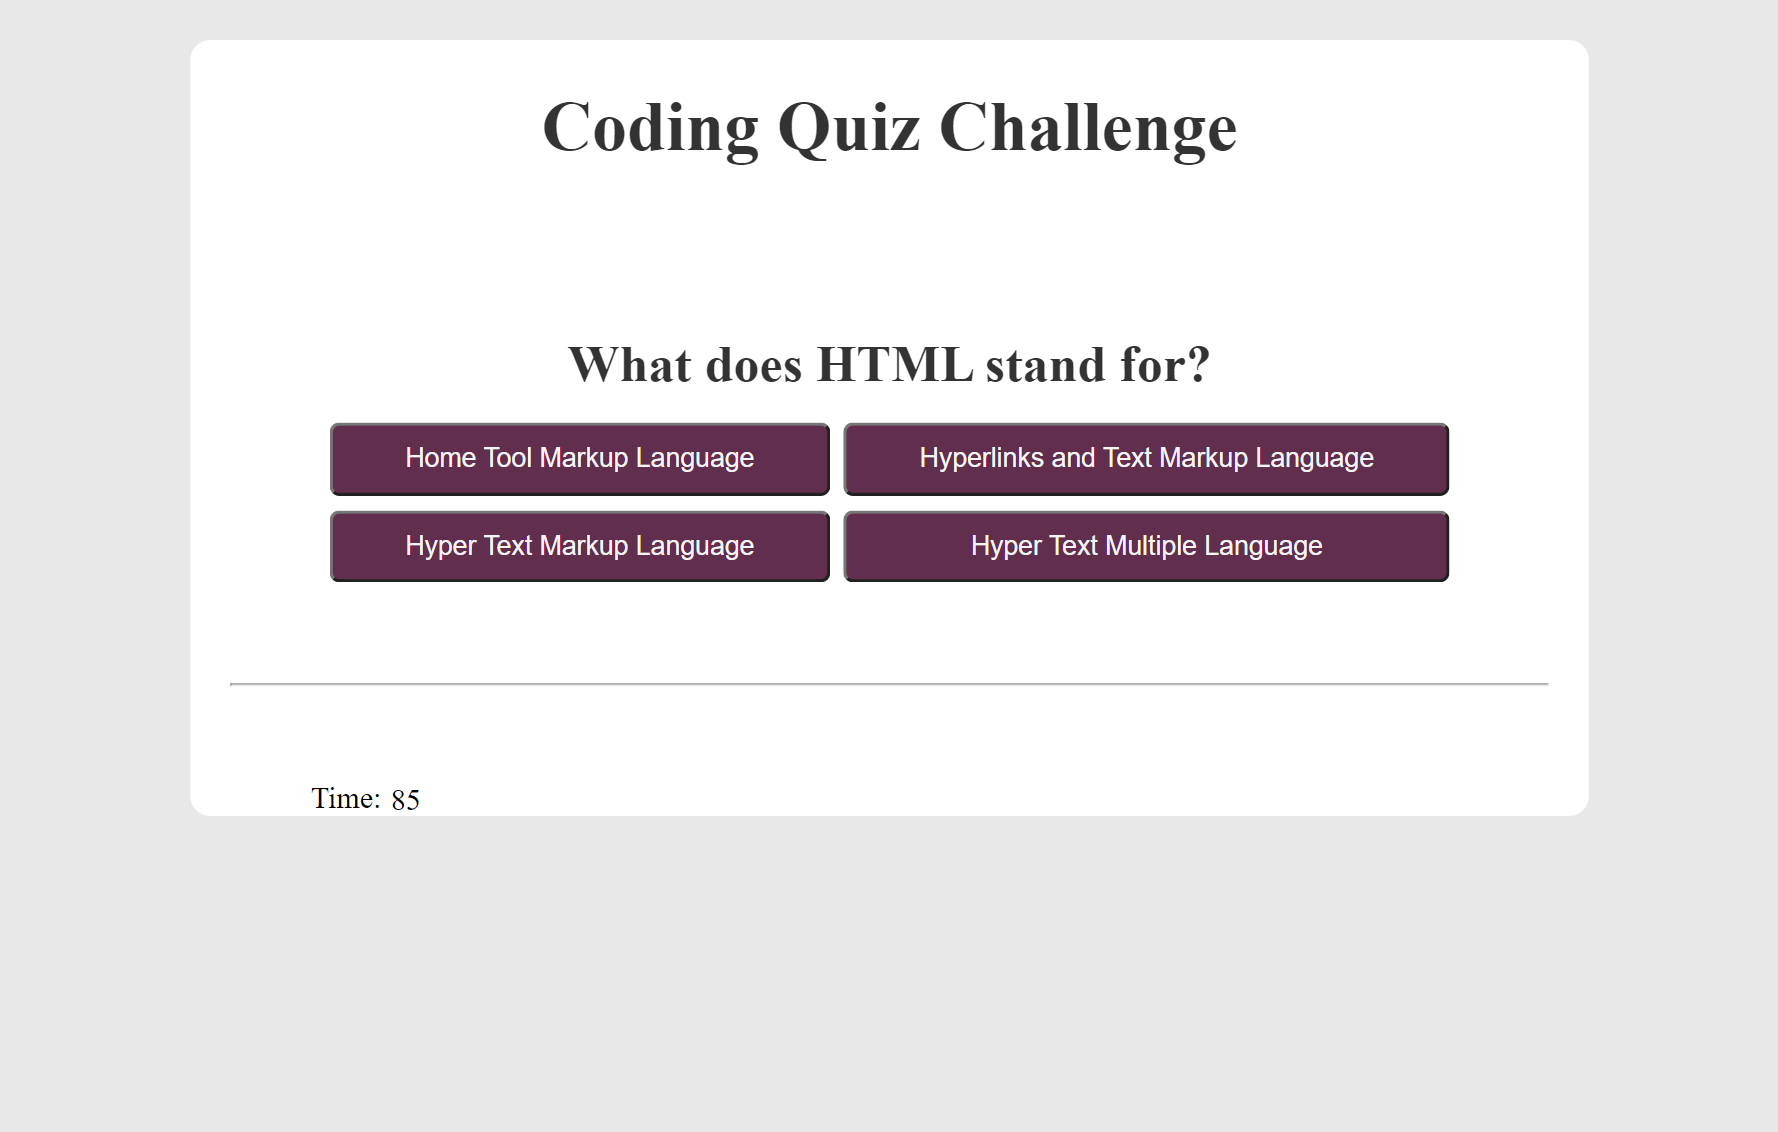
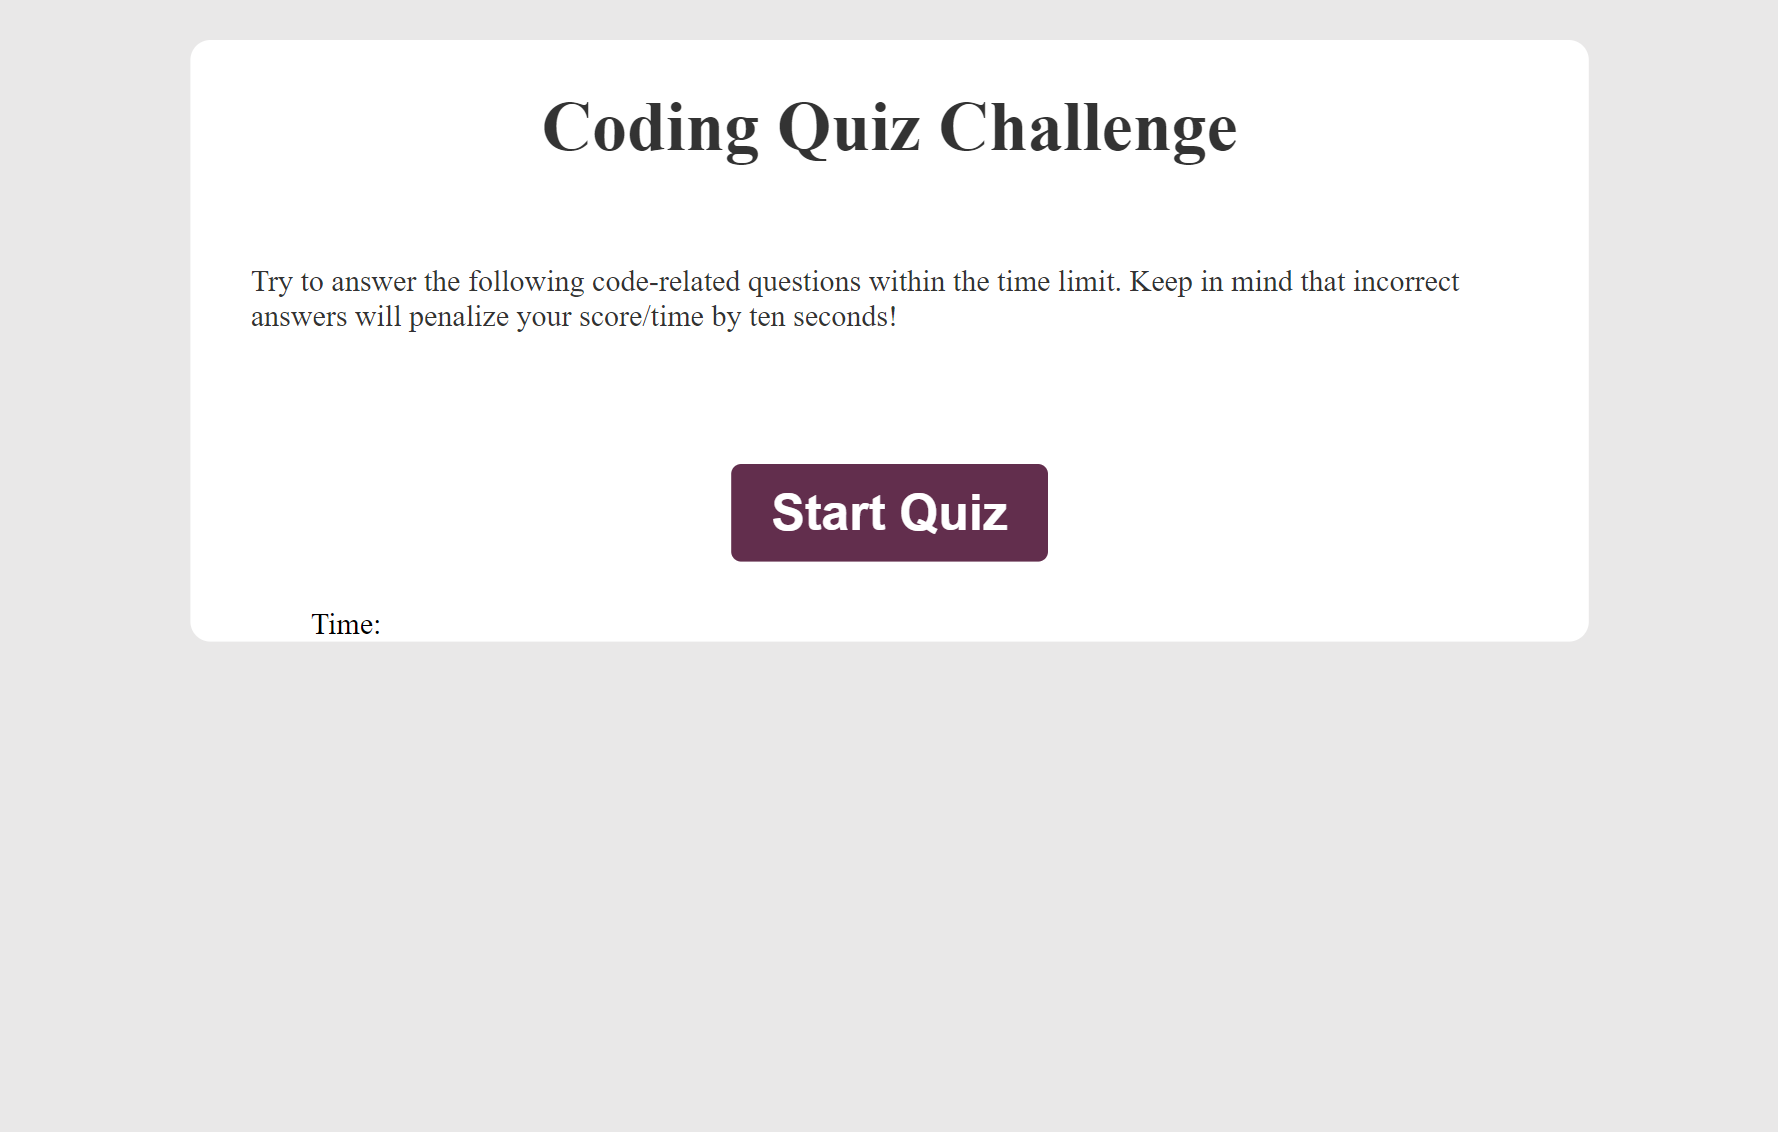
new screen shots added to readme file

Changed region(s): [[0.1856, 0.371, 0.8352, 0.5565], [0.1547, 0.2473, 0.8043, 0.3401], [0.1856, 0.6802, 0.2165, 0.7111]]

diff --git a/README.md b/README.md
@@ -23,5 +23,6 @@ Good luck and have fun!
 - License: MIT
 
 ## Screenshot and link for the deployed application
-![Screenshot of deployed application](./assets/screenshot/Screenshot1.png)(./assets/screenshot/Screenshot2.png)
+![Screenshot of deployed application](./assets/screenshot/Screenshot1.png)
+![Screenshot of deployed application](./assets/screenshot/Screenshot2.png)
 [Link deployed application]((https://elisamarchete.github.io/code-quiz/))
